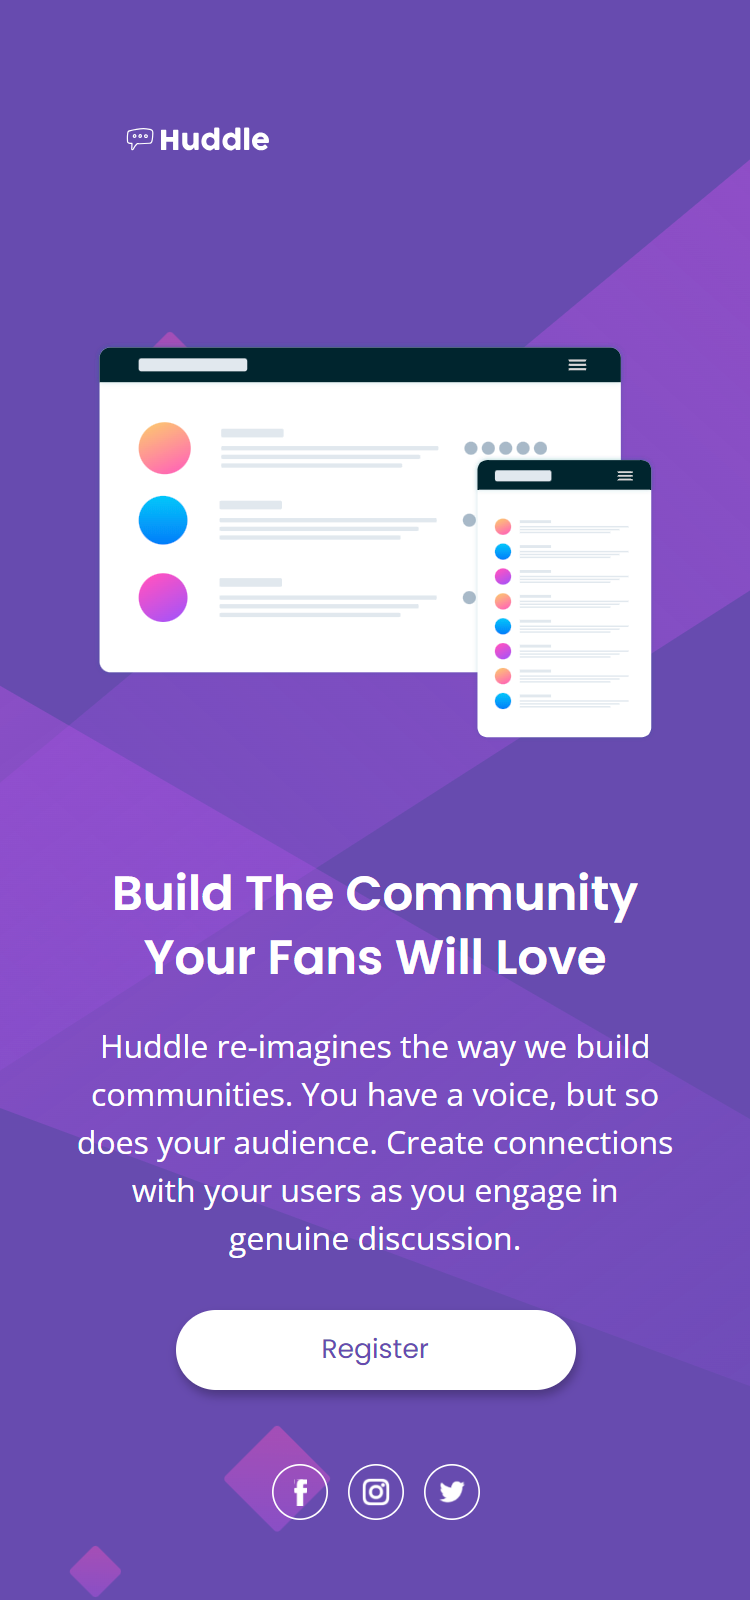
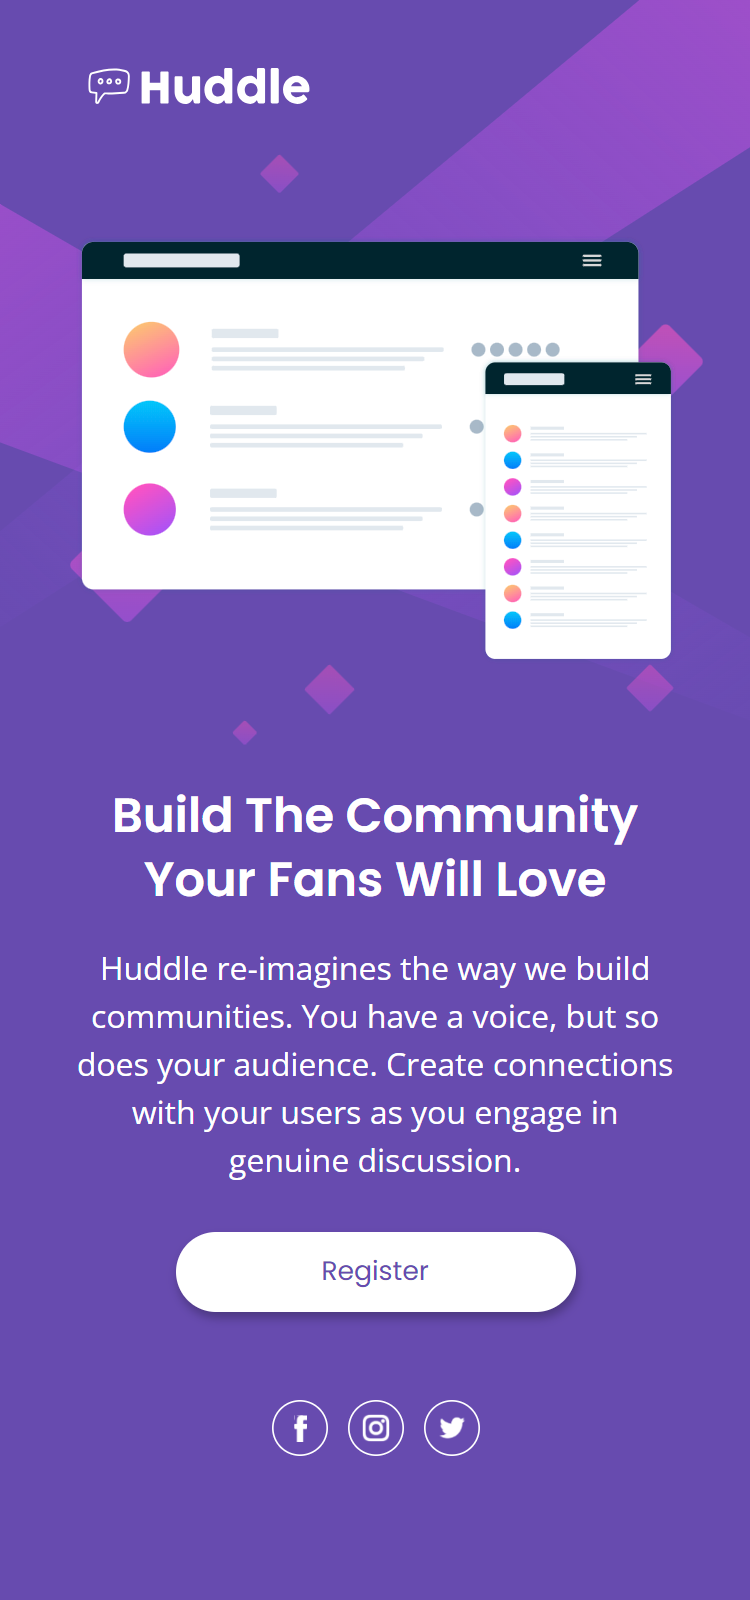
Fix: Mobile background position, mobile spacing, mobile screenshot.

diff --git a/newbie/huddle-landing-page/styles.css b/newbie/huddle-landing-page/styles.css
@@ -109,9 +109,9 @@ p {
     background-image: url(media/bg-mobile.svg);
     background-position: top center;
     background-repeat: no-repeat;
-    background-size: cover;
-    padding-left: min(2.5rem, 10vw);
-    padding-right: min(2.5rem, 10vw);
+    background-size: contain;
+    padding-left: max(1rem, 10vw);
+    padding-right: max(1rem, 10vw);
   }
   footer {
     gap: 0.625rem;
@@ -134,13 +134,14 @@ p {
     text-align: center;
   }
   .img-logo {
-    height: 1.188rem;
-    padding-bottom: 3.375rem;
+    height: auto;
+    max-height: 25vh;
+    object-fit: contain;
+    padding-bottom: 1rem;
     width: 7.5rem;
   }
   .img-mockup {
     height: auto;
-    max-height: 25vh;
     padding-bottom: 3.75rem;
     object-fit: contain;
     width: 100%;
@@ -150,7 +151,7 @@ p {
     width: 1.75rem;
   }
   .layout-container {
-    padding-top: 3.75rem;
+    padding-top: 1.75rem;
     flex-direction: column;
     gap: 1rem;
     justify-content: space-between;

diff --git a/newbie/huddle-landing-page/styles.sass b/newbie/huddle-landing-page/styles.sass
@@ -108,9 +108,9 @@ p
     background-image: url(media/bg-mobile.svg)
     background-position: top center
     background-repeat: no-repeat
-    background-size: cover
-    padding-left: min(2.5rem, 10vw)
-    padding-right: min(2.5rem, 10vw)
+    background-size: contain
+    padding-left: max(1rem, 10vw)
+    padding-right: max(1rem, 10vw)
 
   footer
     gap: 0.625rem
@@ -133,13 +133,14 @@ p
     text-align: center
 
   .img-logo
-    height: 1.188rem
-    padding-bottom: 3.375rem
+    height: auto
+    max-height: 25vh
+    object-fit: contain
+    padding-bottom: 1rem
     width: 7.5rem
 
   .img-mockup
     height: auto
-    max-height: 25vh
     padding-bottom: 3.75rem
     object-fit: contain
     width: 100%
@@ -149,7 +150,7 @@ p
     width: 1.75rem
 
   .layout-container
-    padding-top: 3.75rem
+    padding-top: 1.75rem
     flex-direction: column
     gap: 1rem
     justify-content: space-between

diff --git a/README.md b/README.md
@@ -2,7 +2,7 @@
 
 | Level  | Frontend Mentor Challenge                                                                                            | Github Link                                        | Live Link                                                               | Used              | Free/Premium |
 |--------|----------------------------------------------------------------------------------------------------------------------|----------------------------------------------------|-------------------------------------------------------------------------|-------------------|--------------|
-| Newbie | [Huddle Landing Page](https://www.frontendmentor.io/challenges/huddle-landing-page-with-a-single-introductory-section-B_2Wvxgi0) | [GitHub](/newbie/huddle-landing-page)              | [Netlify]() | HTML, SASS |
+| Newbie | [Huddle Landing Page](https://www.frontendmentor.io/challenges/huddle-landing-page-with-a-single-introductory-section-B_2Wvxgi0) | [GitHub](/newbie/huddle-landing-page)              | [Netlify](https://fem-huddle-landing-page-ag.netlify.app/) | HTML, SASS |
 | Newbie | [Ping Coming Soon Landing Page](https://www.frontendmentor.io/challenges/ping-single-column-coming-soon-page-5cadd051fec04111f7b848da) | [GitHub](/newbie/ping-coming-soon-page)            | [Netlify](https://fem-ping-coming-soon-page-ag.netlify.app/) | react, @chakra-ui | Free |
 | Newbie | [Product Preview Card Component](https://www.frontendmentor.io/challenges/product-preview-card-component-GO7UmttRfa) | [GitHub](/newbie/product-preview-card-component-main) | [Netlify](https://fem-product-preview-card-component-ag.netlify.app/)   | react, @chakra-ui | Free         |
 | Newbie | [Profile Code Component](https://www.frontendmentor.io/challenges/profile-card-component-cfArpWshJ)                  | [GitHub](/newbie/profile-card-component-main)      | [Netlify](https://fem-profile-component-main.netlify.app/)              | react, @chakra-ui | Free         |

diff --git a/newbie/huddle-landing-page/README.md b/newbie/huddle-landing-page/README.md
@@ -1,6 +1,6 @@
 # Huddle Landing Page
 
-<a href="">
+<a href="https://fem-huddle-landing-page-ag.netlify.app/">
 <img src="https://img.shields.io/badge/View_Live_Implementation-seagreen?style=for-the-badge" alt="View live implementation"></a>
 
 ## Design/Solution Comparison
